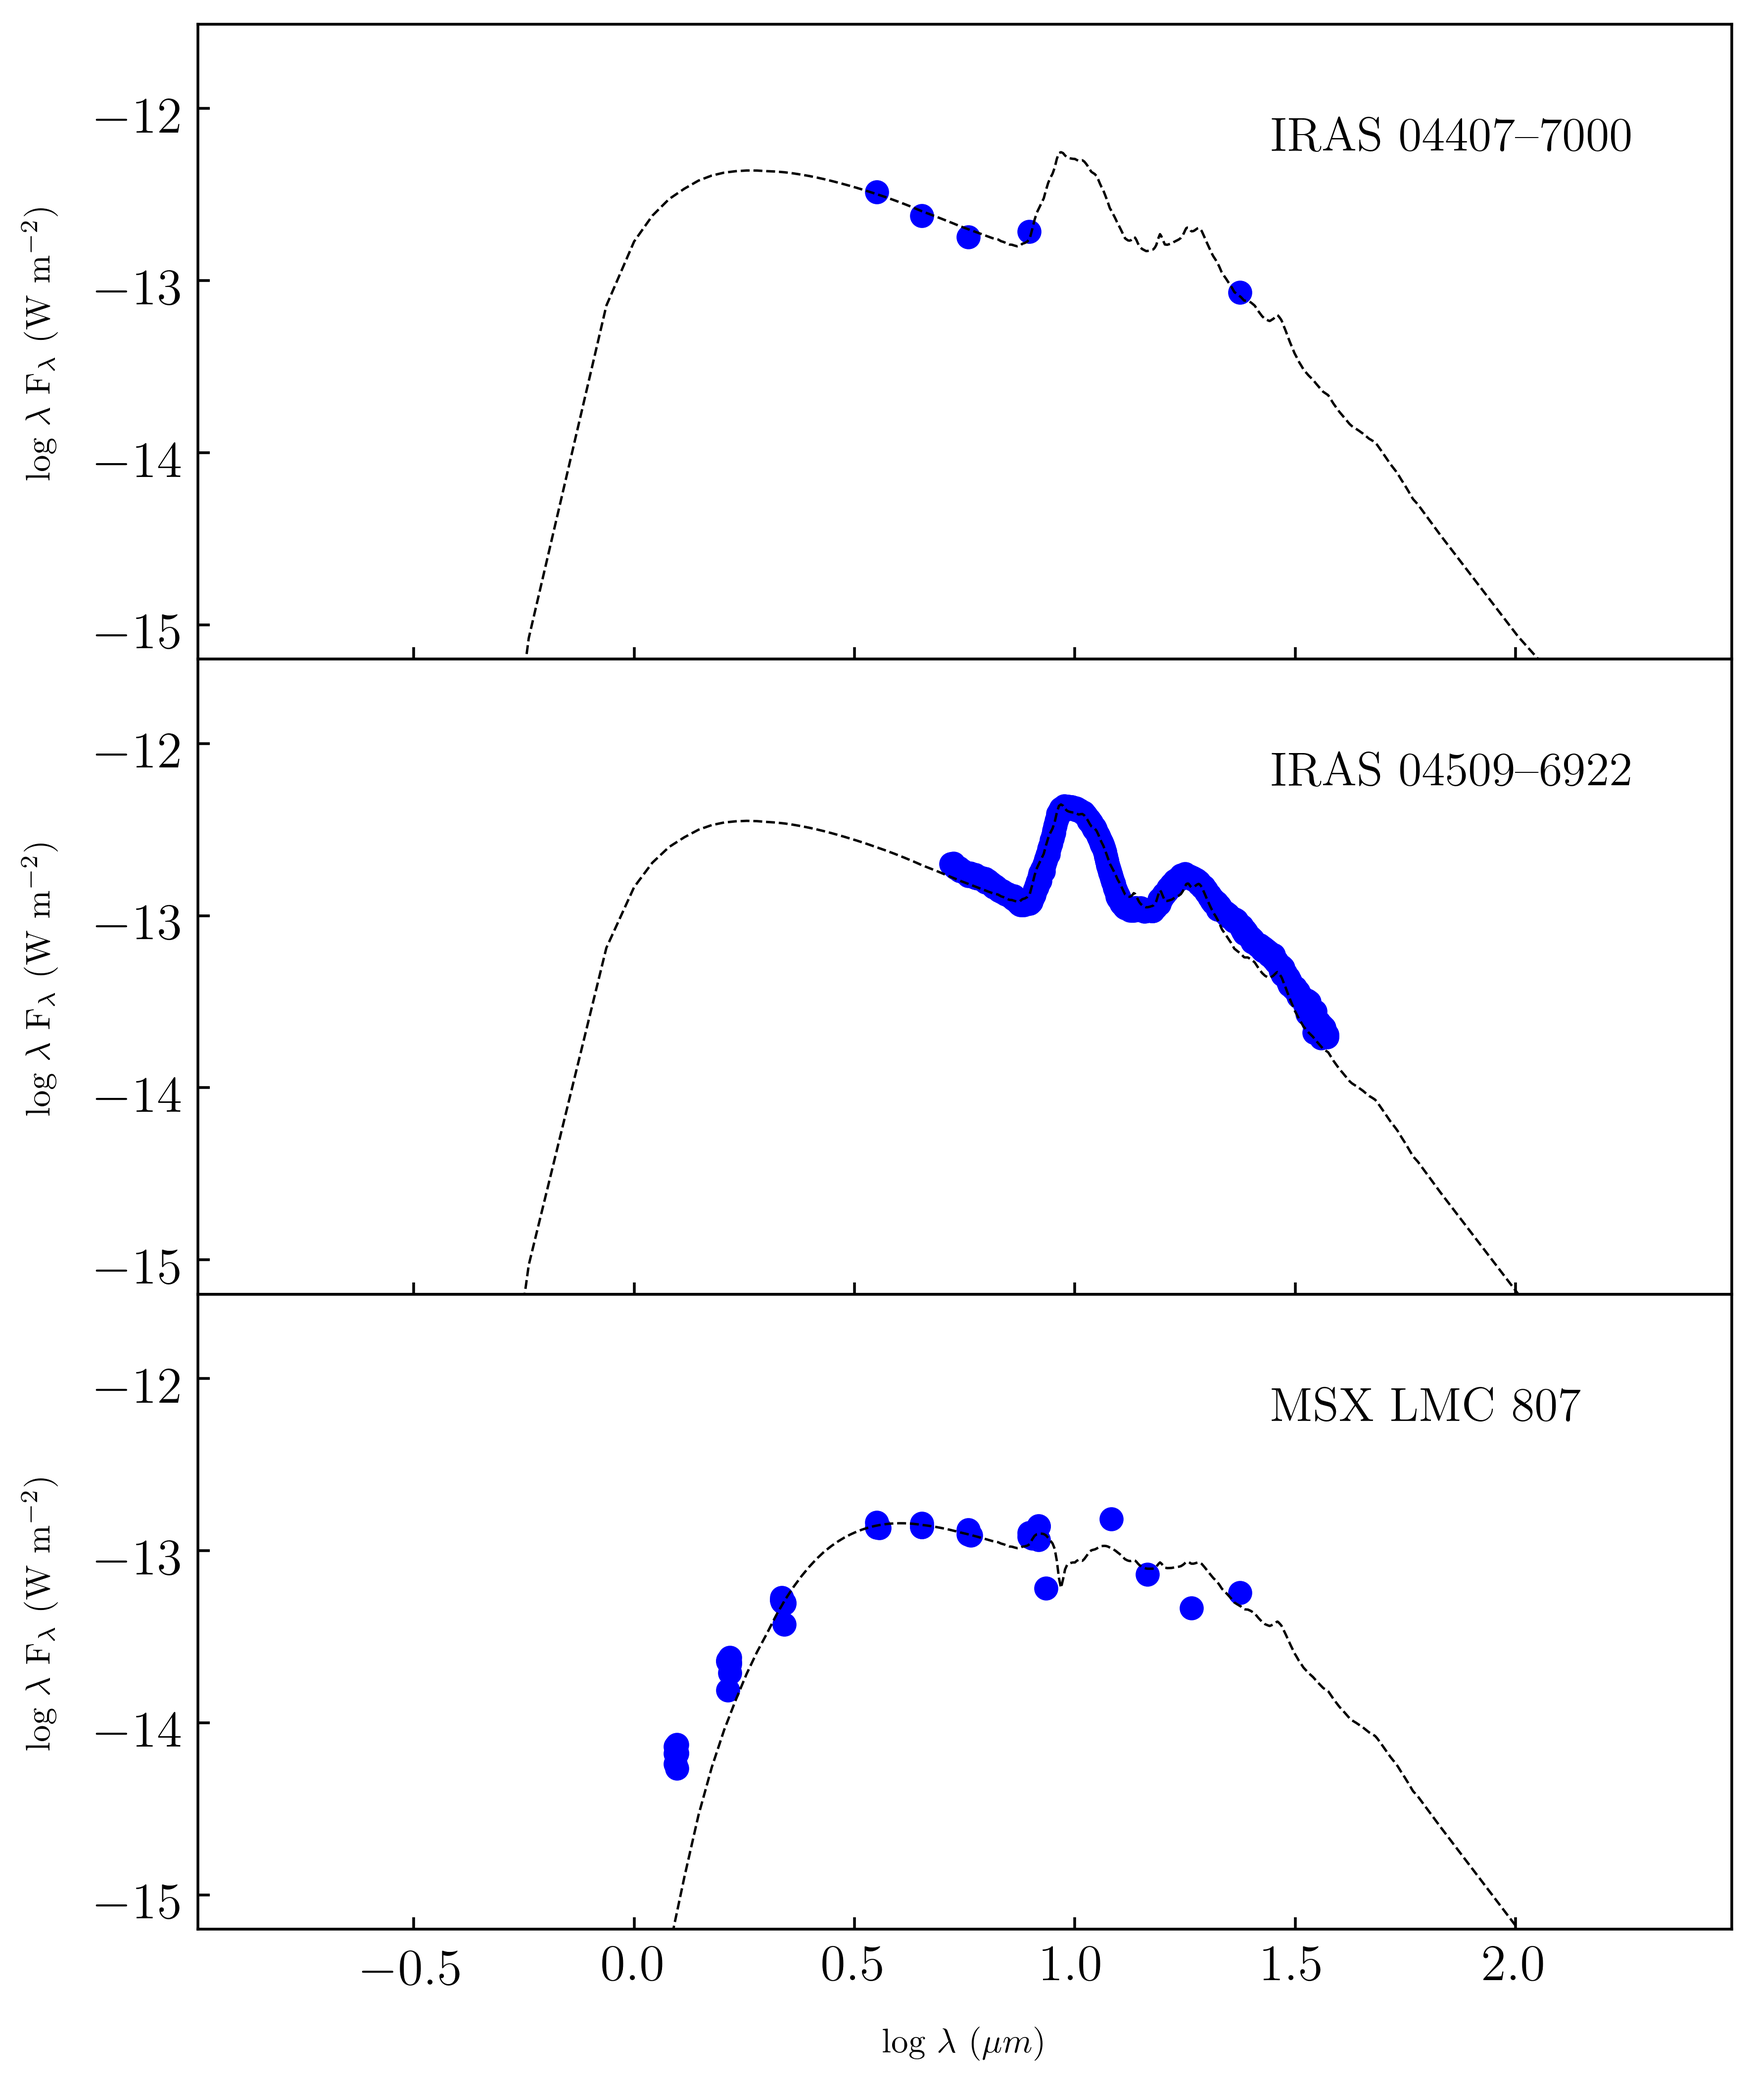
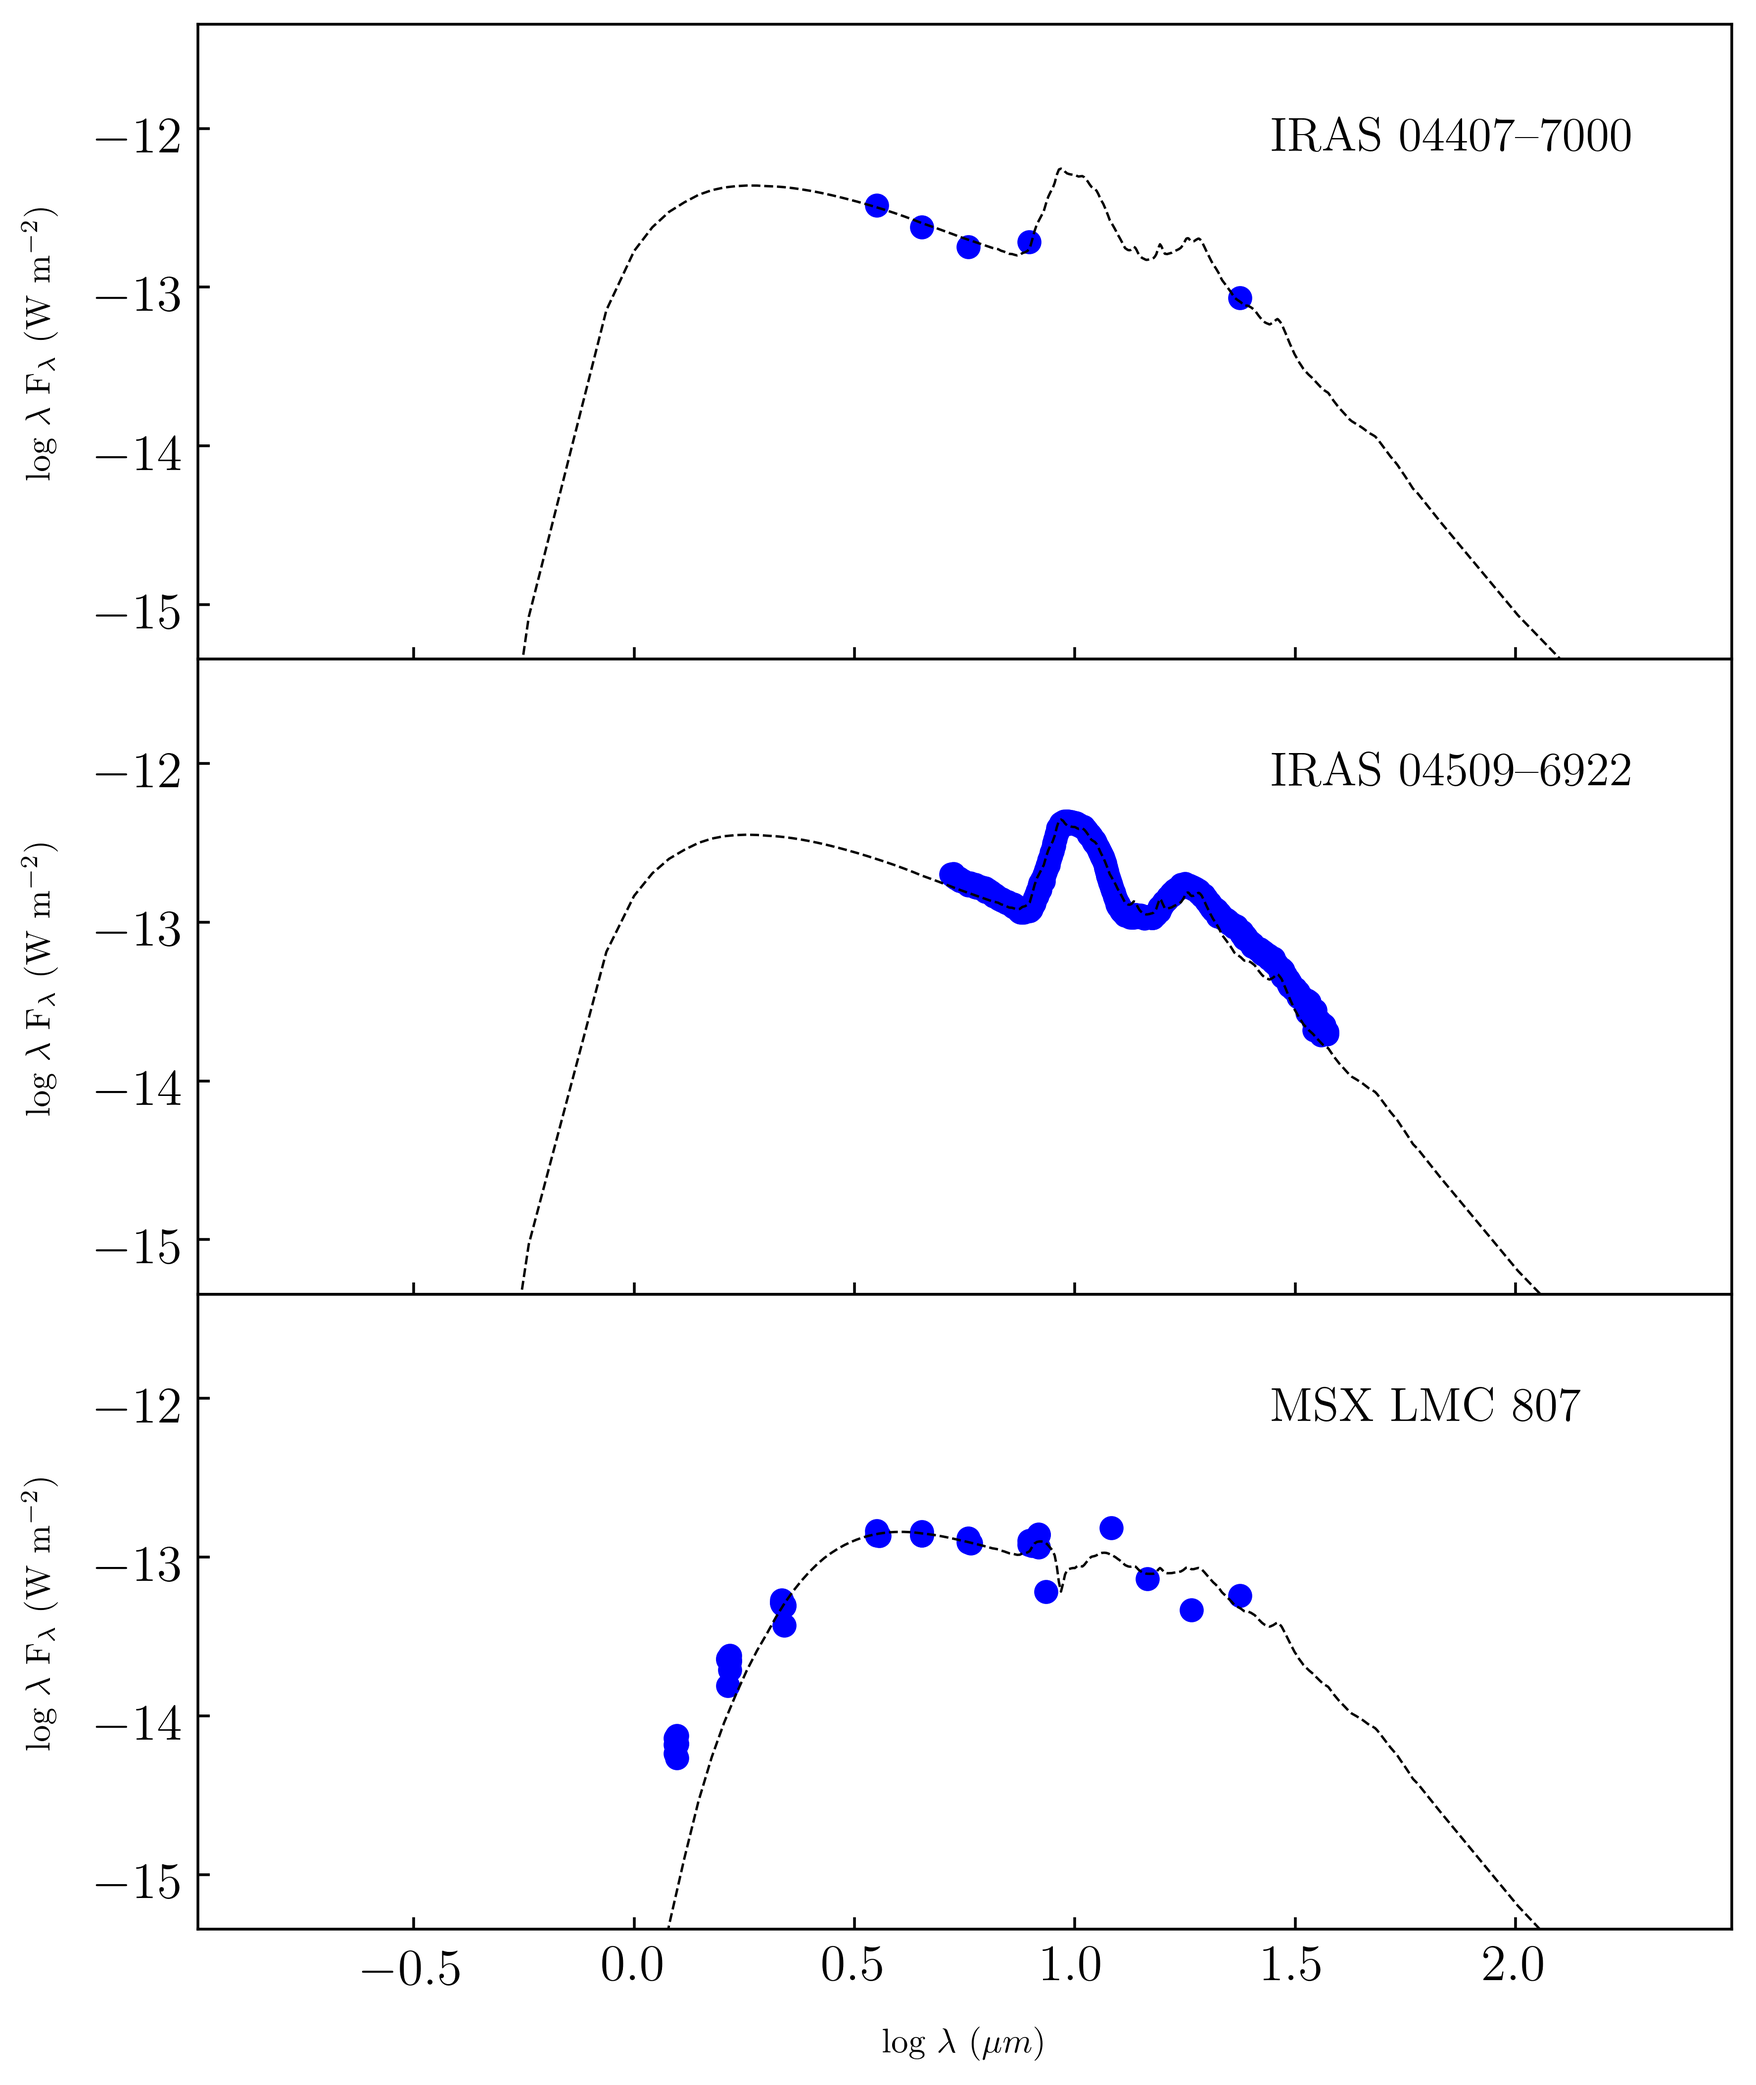
added Jy option

diff --git a/desk/python_scripts/plotting_seds.py b/desk/python_scripts/plotting_seds.py
@@ -1,6 +1,7 @@
 import os
 import math
 import subprocess
+import config
 import pdb
 import shutil
 import numpy as np
@@ -39,8 +40,13 @@ def create_fig():
         table.sort(table.colnames[0])
         x = np.array(table.columns[0])
         y = np.array(table.columns[1])
-        y = y * u.Jy
-        y = y.to(u.W/(u.m * u.m), equivalencies=u.spectral_density(x * u.um))
+        if config.ouput['output_unit'] == 'Wm^-2':
+            y = y * u.Jy
+            y = y.to(u.W/(u.m * u.m), equivalencies=u.spectral_density(x * u.um))
+        elif config.ouput['output_unit'] == 'Jy':
+            pass
+        else:
+            raise ValueError("Unit in config.py not 'Wm^-2' or 'Jy'")
         return x, np.array(y)
 
     # plotting stuff
@@ -61,6 +67,16 @@ def create_fig():
         x_model, y_model = grid_dusty[target['index']]
         x_model = x_model[np.where(y_model != 0)]
         y_model = y_model[np.where(y_model != 0)] * input_file[counter]['norm']
+        if config.ouput['output_unit'] == 'Wm^-2':
+            axislabel="log $\lambda$ F$_{\lambda}$ (W m$^{-2}$)"
+        elif config.ouput['output_unit'] == 'Jy':
+            y_model = y_model * u.W/(u.m * u.m)
+            y_model = y_model/((x_model*u.um).to(u.Hz, equivalencies=u.spectral()))
+            y_model = y_model.to(u.Jy).value
+            axislabel = "log F$_{\lambda}$ (Jy)"
+        else:
+            raise ValueError("Unit in config.py not 'Wm^-2' or 'Jy'")
+
 
         # logscale
         x_model = np.log10(x_model)
@@ -81,7 +97,7 @@ def create_fig():
             ax1.set_ylabel("log $\lambda$ F$_{\lambda}$ "+"(W m$^{-2}$)", labelpad=10)
         else:
             axs[counter].set_xlim(-0.99, 2.49)
-            axs[counter].set_ylim(-15.2, -11.51)
+            axs[counter].set_ylim(np.median(y_model)-2, np.median(y_model)+2)
             axs[counter].plot(x_model, y_model, c='k', linewidth=0.7, linestyle='--', zorder=2)
             axs[counter].scatter(x_data, y_data, c='blue')
             axs[counter].annotate(target_name.replace('-', r'\textendash'), (0.7, 0.8), xycoords='axes fraction',
@@ -89,7 +105,7 @@ def create_fig():
             axs[counter].get_xaxis().set_tick_params(which='both', direction='in', labelsize=15)
             axs[counter].get_yaxis().set_tick_params(which='both', direction='in', labelsize=15)
             axs[counter].set_xlabel('log $\lambda$ ($\mu m$)', labelpad=10)
-            axs[counter].set_ylabel("log $\lambda$ F$_{\lambda}$ "+"(W m$^{-2}$)", labelpad=10)
+            axs[counter].set_ylabel(axislabel, labelpad=10)
 
     plt.subplots_adjust(wspace=0, hspace=0)
     # fig.text(0.5, 0.1, 'log $\lambda$ ($\mu m$)', ha='center', fontsize=16)

diff --git a/desk/python_scripts/config.py b/desk/python_scripts/config.py
@@ -10,6 +10,7 @@ This script is for plotting the outputs of the sed_fitting script.
 target = dict(
     distance_in_kpc = 50,
     assumed_gas_to_dust_ratio = 400,
+    input_unit = 'Jy'
 )
 fitting = dict(
     model_grid = 'Crystalline-20-bb',
@@ -18,4 +19,9 @@ fitting = dict(
     min_norm = 1e-16,
     max_norm = 1e-12,
     ntrials = 2000
+)
+ouput = dict(
+    output_unit = 'Wm^-2',
+    # output_unit = 'Jy',
+    single_or_mulitple_figures = 'single'
 )
